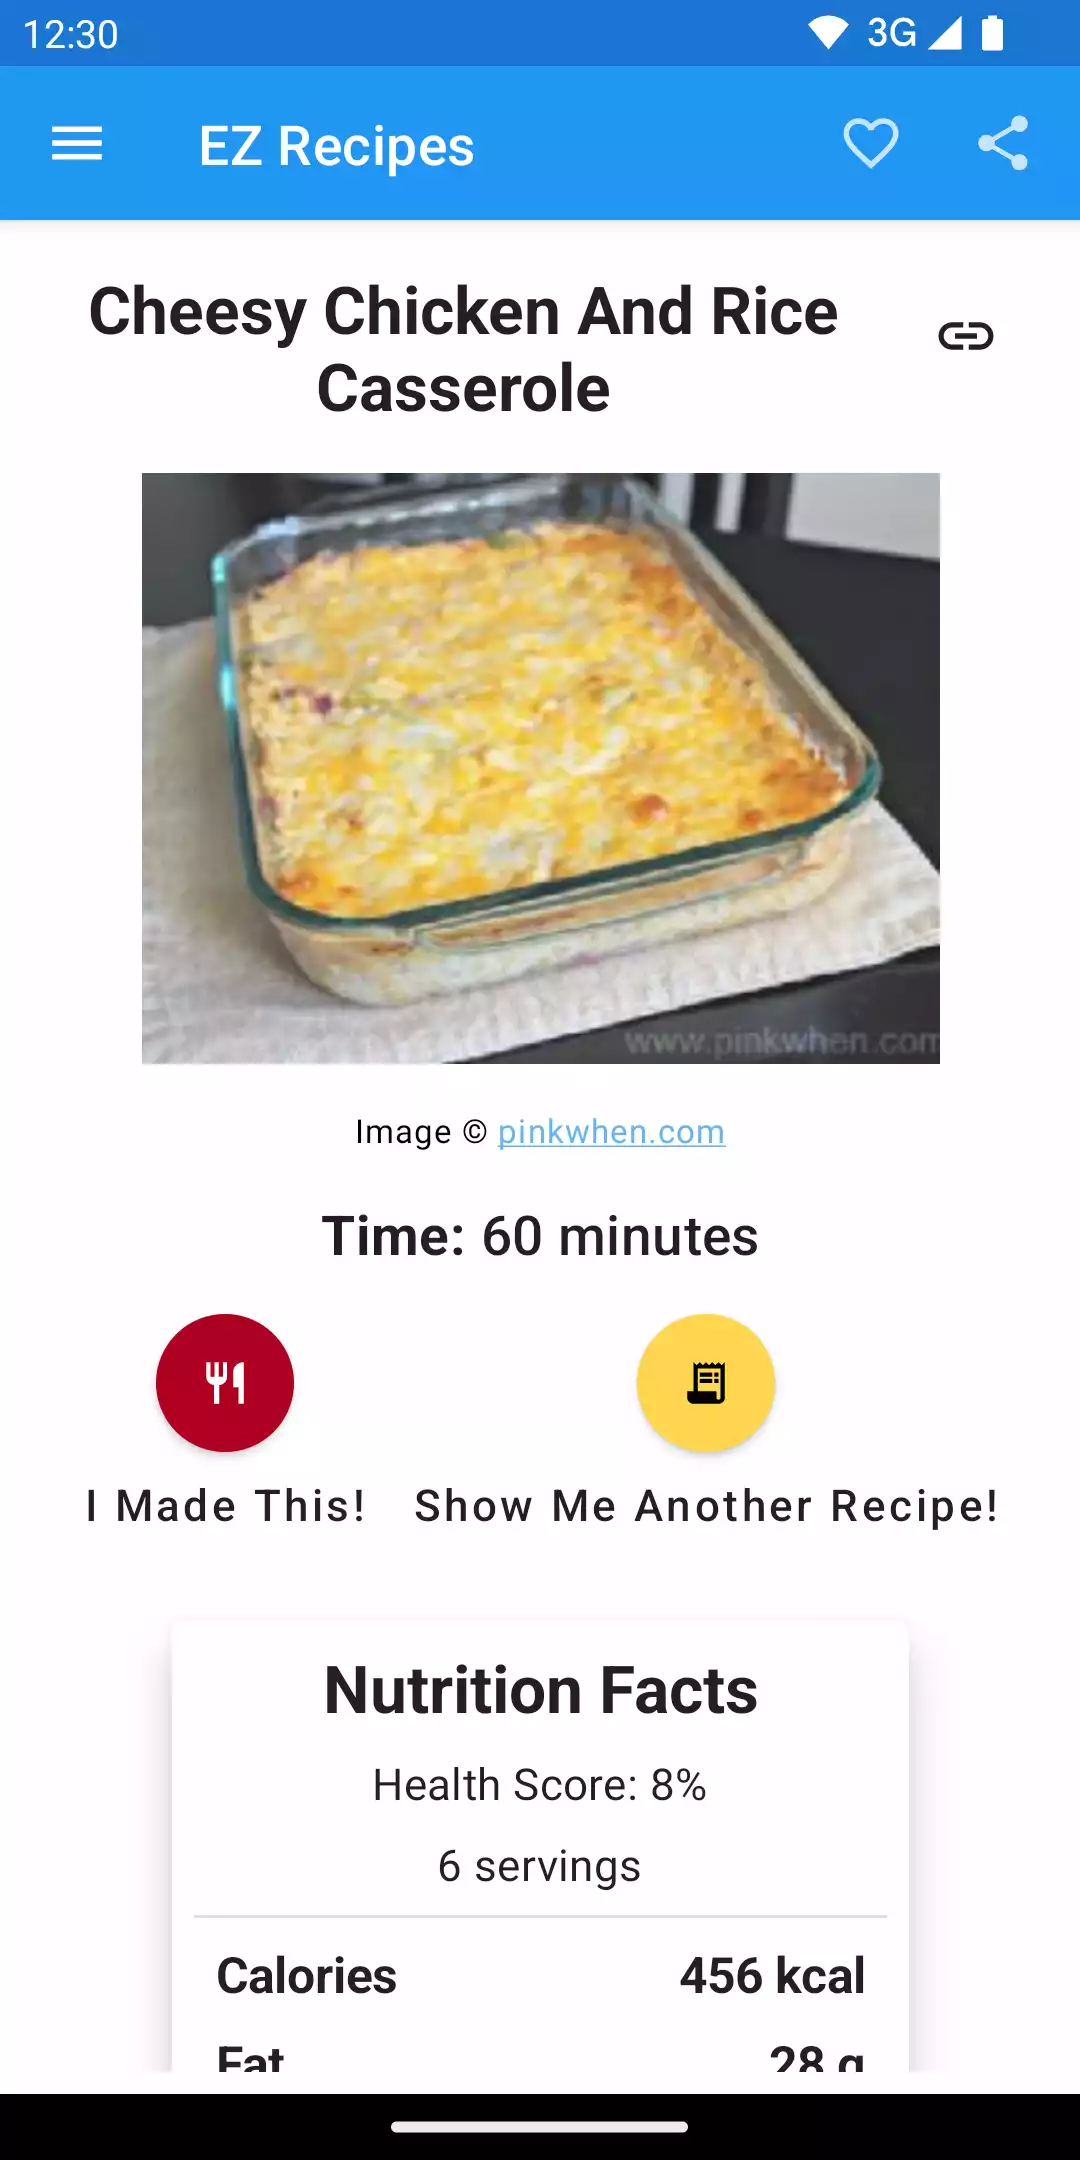
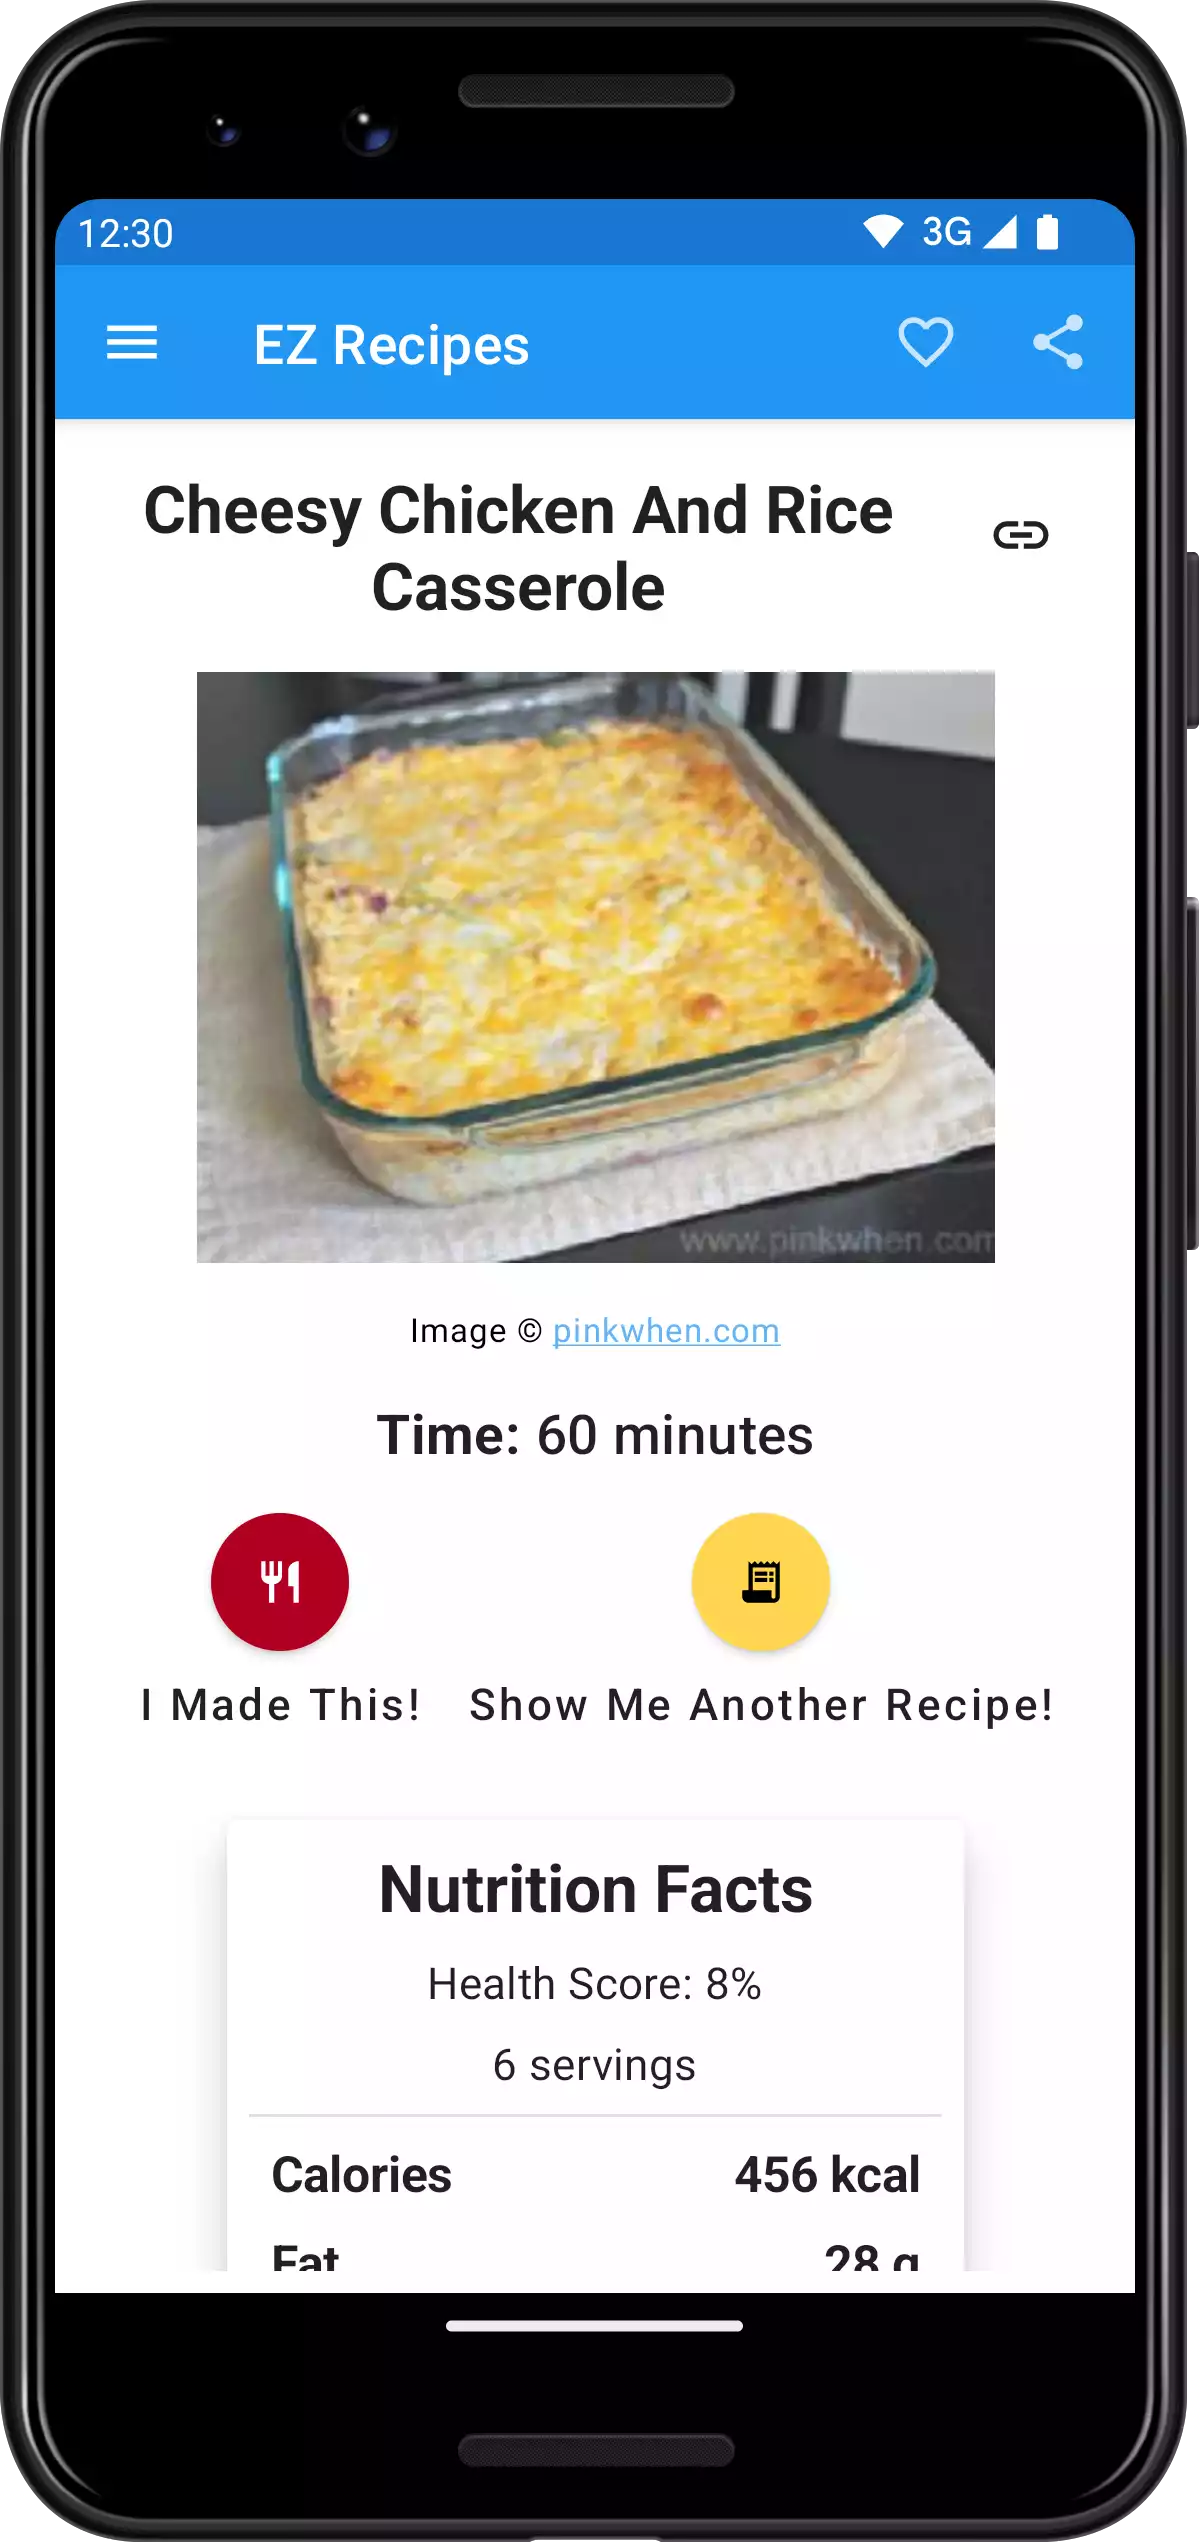
Deploying to gh-pages from @ Abhiek187/abhiek187.github.io@6943d252e2220e666dd6f5c1abfa737825f10c76 🚀

diff --git a/sw.js b/sw.js
@@ -1,1 +1,1 @@
-if(!self.define){let e,i={};const c=(c,r)=>(c=new URL(c+".js",r).href,i[c]||new Promise((i=>{if("document"in self){const e=document.createElement("script");e.src=c,e.onload=i,document.head.appendChild(e)}else e=c,importScripts(c),i()})).then((()=>{let e=i[c];if(!e)throw new Error(`Module ${c} didn’t register its module`);return e})));self.define=(r,a)=>{const o=e||("document"in self?document.currentScript.src:"")||location.href;if(i[o])return;let n={};const s=e=>c(e,o),b={module:{uri:o},exports:n,require:s};i[o]=Promise.all(r.map((e=>b[e]||s(e)))).then((e=>(a(...e),n)))}}define(["./workbox-fa446783"],(function(e){"use strict";self.skipWaiting(),e.clientsClaim(),e.precacheAndRoute([{url:"assets/index-110f9a0c.js",revision:null},{url:"assets/index-80749302.js",revision:null},{url:"assets/index-ad364940.css",revision:null},{url:"assets/web-vitals-dfcc5b9a.js",revision:null},{url:"favicon.ico",revision:"aab88ee4f2c8b13c48ec86b1a2b03172"},{url:"icon/android-chrome-192x192.png",revision:"b39e3b5645079017ae393248008773c0"},{url:"icon/android-chrome-512x512.png",revision:"aec1d285b9d239079a0cc720cf8acb26"},{url:"icon/apple-touch-icon.png",revision:"82d648447fb8206923a5b0644a16c937"},{url:"icon/favicon-16x16.png",revision:"5c9606a4f1f8a83ba43c0c98a6451c26"},{url:"icon/favicon-32x32.png",revision:"6e0cc0c549740a98d68c9deafea95a06"},{url:"icon/mstile-150x150.png",revision:"3262ec77c1d7bb05aef83bc4cc605c48"},{url:"icon/safari-pinned-tab.svg",revision:"0e2d0ba7e1d3060f0afc14ecb7c048cf"},{url:"img/android/area-advice.webp",revision:"b1a816ff9d1335fa4574cbafc4506c31"},{url:"img/android/brain-smarts.webp",revision:"72f29abfc9e9bc8331bd162778713ede"},{url:"img/android/ez-recipes.webp",revision:"0f6f25ceea1efa5bb7839f02d7f34708"},{url:"img/android/floor-printing-robot.webp",revision:"f0d7788daea91d4058419dd345a01a3b"},{url:"img/headshot.jpg",revision:"9e265c371af68b494d57f343b0d7604e"},{url:"img/headshot.webp",revision:"0f4aaeeba8eee35458a28bd29b7eac8d"},{url:"img/ios/captain-conundrum.webp",revision:"8025f77611c6653205334a624199dee4"},{url:"img/ios/ez-recipes.webp",revision:"1725b78b2e803502b4f81d3ca52da0f1"},{url:"img/ios/hoppy-bunny.webp",revision:"a3ccbd16d811a1bdc49adefcc5049dee"},{url:"img/ios/makestagram.webp",revision:"d3120d97bd54d764433bd1df52962c7b"},{url:"img/ios/peeved-penguins.webp",revision:"13ac1781f1b350e060ff2b2b92490bf8"},{url:"img/ios/sushi-neko.webp",revision:"520aa0d03b2bfcf50089eb4e12ef6b7d"},{url:"img/ios/sweet-trip.webp",revision:"1c98ad7eb586c04b273b9e48bc61b6b5"},{url:"img/logo.svg",revision:"ee7cd8ed2dcec943251eb2763684fc6f"},{url:"img/other/3d-collectathon.webp",revision:"7fead8846aa38ec4a3841734374ddaf9"},{url:"img/other/calculators.webp",revision:"0a008b92abee19f52daf51aad0ba2c85"},{url:"img/other/cheat-sheets.webp",revision:"04028cf57c4551486fb81e75e02400c2"},{url:"img/web/ez-recipes.webp",revision:"08455c6868c236c7b2d256752fdb4d33"},{url:"img/web/frogger.webp",revision:"22cc1902aeffcd1fb43ca10535719362"},{url:"img/web/giphy-gif-search.webp",revision:"7da7624794499ffb46075a70ffac0cd6"},{url:"img/web/how-to-stock.webp",revision:"33f579ddc5e256cc687207c21ec33d68"},{url:"img/web/memory-game.webp",revision:"4216f6456e55a23439aee3104a0e6d24"},{url:"img/web/minesweeper.webp",revision:"e833e17da6548aff2995f725ddc9527b"},{url:"index.html",revision:"98be5c893b8cd3afdbc9dac608e28f20"},{url:"registerSW.js",revision:"1872c500de691dce40960bb85481de07"},{url:"resume.pdf",revision:"075acbc9cfeb3800fe96f6cd9efab74a"},{url:"favicon.ico",revision:"aab88ee4f2c8b13c48ec86b1a2b03172"},{url:"icon/android-chrome-192x192.png",revision:"b39e3b5645079017ae393248008773c0"},{url:"icon/android-chrome-512x512.png",revision:"aec1d285b9d239079a0cc720cf8acb26"},{url:"manifest.webmanifest",revision:"293514c963db8858ea6cf3f87cd52320"}],{}),e.cleanupOutdatedCaches(),e.registerRoute(new e.NavigationRoute(e.createHandlerBoundToURL("index.html"),{allowlist:[/^\/$/,/^\/#\//]}))}));
+if(!self.define){let e,i={};const c=(c,r)=>(c=new URL(c+".js",r).href,i[c]||new Promise((i=>{if("document"in self){const e=document.createElement("script");e.src=c,e.onload=i,document.head.appendChild(e)}else e=c,importScripts(c),i()})).then((()=>{let e=i[c];if(!e)throw new Error(`Module ${c} didn’t register its module`);return e})));self.define=(r,a)=>{const o=e||("document"in self?document.currentScript.src:"")||location.href;if(i[o])return;let n={};const s=e=>c(e,o),b={module:{uri:o},exports:n,require:s};i[o]=Promise.all(r.map((e=>b[e]||s(e)))).then((e=>(a(...e),n)))}}define(["./workbox-fa446783"],(function(e){"use strict";self.skipWaiting(),e.clientsClaim(),e.precacheAndRoute([{url:"assets/index-110f9a0c.js",revision:null},{url:"assets/index-80749302.js",revision:null},{url:"assets/index-ad364940.css",revision:null},{url:"assets/web-vitals-dfcc5b9a.js",revision:null},{url:"favicon.ico",revision:"aab88ee4f2c8b13c48ec86b1a2b03172"},{url:"icon/android-chrome-192x192.png",revision:"b39e3b5645079017ae393248008773c0"},{url:"icon/android-chrome-512x512.png",revision:"aec1d285b9d239079a0cc720cf8acb26"},{url:"icon/apple-touch-icon.png",revision:"82d648447fb8206923a5b0644a16c937"},{url:"icon/favicon-16x16.png",revision:"5c9606a4f1f8a83ba43c0c98a6451c26"},{url:"icon/favicon-32x32.png",revision:"6e0cc0c549740a98d68c9deafea95a06"},{url:"icon/mstile-150x150.png",revision:"3262ec77c1d7bb05aef83bc4cc605c48"},{url:"icon/safari-pinned-tab.svg",revision:"0e2d0ba7e1d3060f0afc14ecb7c048cf"},{url:"img/android/area-advice.webp",revision:"b1a816ff9d1335fa4574cbafc4506c31"},{url:"img/android/brain-smarts.webp",revision:"72f29abfc9e9bc8331bd162778713ede"},{url:"img/android/ez-recipes.webp",revision:"67ece683483f13bd90bea6223c702503"},{url:"img/android/floor-printing-robot.webp",revision:"f0d7788daea91d4058419dd345a01a3b"},{url:"img/headshot.jpg",revision:"9e265c371af68b494d57f343b0d7604e"},{url:"img/headshot.webp",revision:"0f4aaeeba8eee35458a28bd29b7eac8d"},{url:"img/ios/captain-conundrum.webp",revision:"8025f77611c6653205334a624199dee4"},{url:"img/ios/ez-recipes.webp",revision:"1725b78b2e803502b4f81d3ca52da0f1"},{url:"img/ios/hoppy-bunny.webp",revision:"a3ccbd16d811a1bdc49adefcc5049dee"},{url:"img/ios/makestagram.webp",revision:"d3120d97bd54d764433bd1df52962c7b"},{url:"img/ios/peeved-penguins.webp",revision:"13ac1781f1b350e060ff2b2b92490bf8"},{url:"img/ios/sushi-neko.webp",revision:"520aa0d03b2bfcf50089eb4e12ef6b7d"},{url:"img/ios/sweet-trip.webp",revision:"1c98ad7eb586c04b273b9e48bc61b6b5"},{url:"img/logo.svg",revision:"ee7cd8ed2dcec943251eb2763684fc6f"},{url:"img/other/3d-collectathon.webp",revision:"7fead8846aa38ec4a3841734374ddaf9"},{url:"img/other/calculators.webp",revision:"0a008b92abee19f52daf51aad0ba2c85"},{url:"img/other/cheat-sheets.webp",revision:"04028cf57c4551486fb81e75e02400c2"},{url:"img/web/ez-recipes.webp",revision:"08455c6868c236c7b2d256752fdb4d33"},{url:"img/web/frogger.webp",revision:"22cc1902aeffcd1fb43ca10535719362"},{url:"img/web/giphy-gif-search.webp",revision:"7da7624794499ffb46075a70ffac0cd6"},{url:"img/web/how-to-stock.webp",revision:"33f579ddc5e256cc687207c21ec33d68"},{url:"img/web/memory-game.webp",revision:"4216f6456e55a23439aee3104a0e6d24"},{url:"img/web/minesweeper.webp",revision:"e833e17da6548aff2995f725ddc9527b"},{url:"index.html",revision:"98be5c893b8cd3afdbc9dac608e28f20"},{url:"registerSW.js",revision:"1872c500de691dce40960bb85481de07"},{url:"resume.pdf",revision:"075acbc9cfeb3800fe96f6cd9efab74a"},{url:"favicon.ico",revision:"aab88ee4f2c8b13c48ec86b1a2b03172"},{url:"icon/android-chrome-192x192.png",revision:"b39e3b5645079017ae393248008773c0"},{url:"icon/android-chrome-512x512.png",revision:"aec1d285b9d239079a0cc720cf8acb26"},{url:"manifest.webmanifest",revision:"293514c963db8858ea6cf3f87cd52320"}],{}),e.cleanupOutdatedCaches(),e.registerRoute(new e.NavigationRoute(e.createHandlerBoundToURL("index.html"),{allowlist:[/^\/$/,/^\/#\//]}))}));
